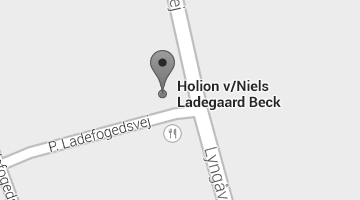
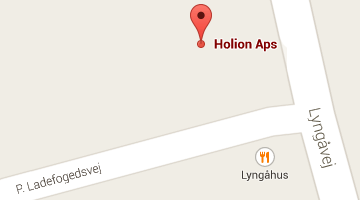
Updated map and address link

diff --git a/index.html b/index.html
@@ -299,7 +299,7 @@
 				<div class="col-lg-4">
 					<h3>Adresse</h3>
 					<p>
-						<a href="https://www.google.dk/maps/place/Holion+v%2FNiels+Ladegaard+Beck/@56.316073,9.9796,574m/data=!3m2!1e3!4b1!4m2!3m1!1s0x464c1022b204c003:0x49b122b618bff2aa?hl=da" target="_blank">
+						<a href="https://www.google.dk/maps/place/Holion+Aps/@56.315923,9.9794572,281m/data=!3m1!1e3!4m2!3m1!1s0x464c1022ae049749:0xdafd89072dab835d?hl=da" target="_blank">
 							<img src="img/map.png" style="border: 1px solid black" />
 						</a>
 					</p>
